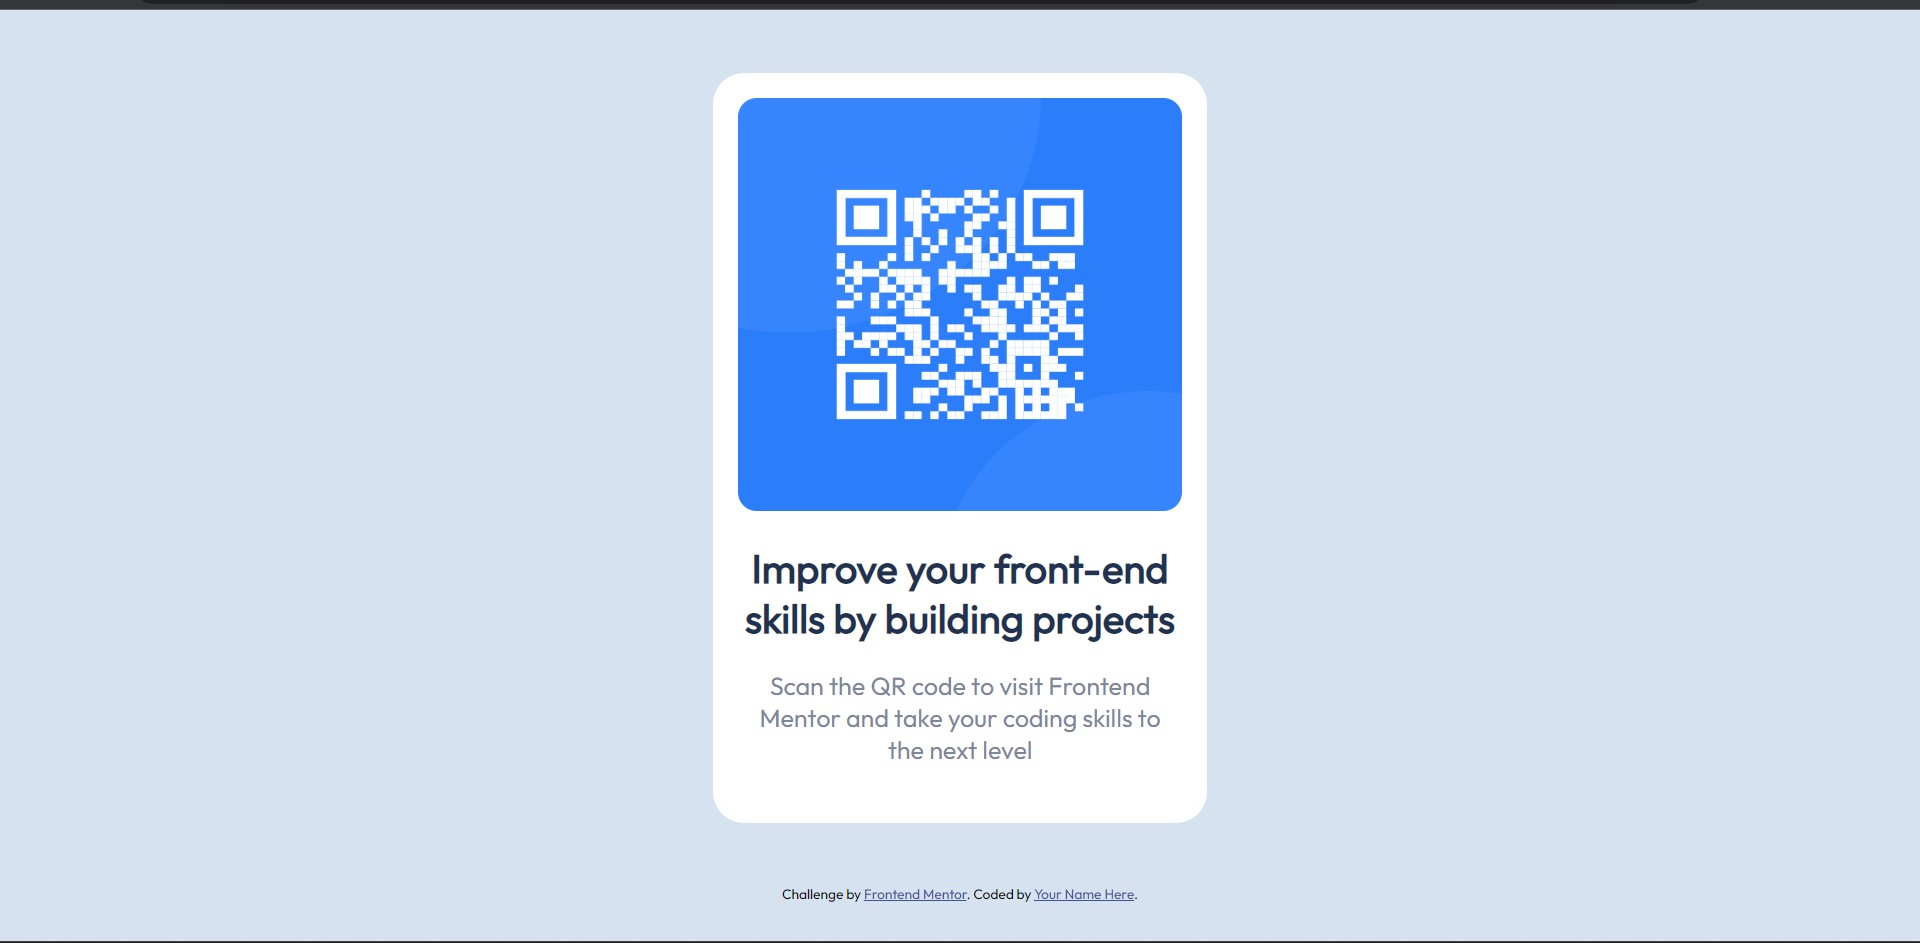
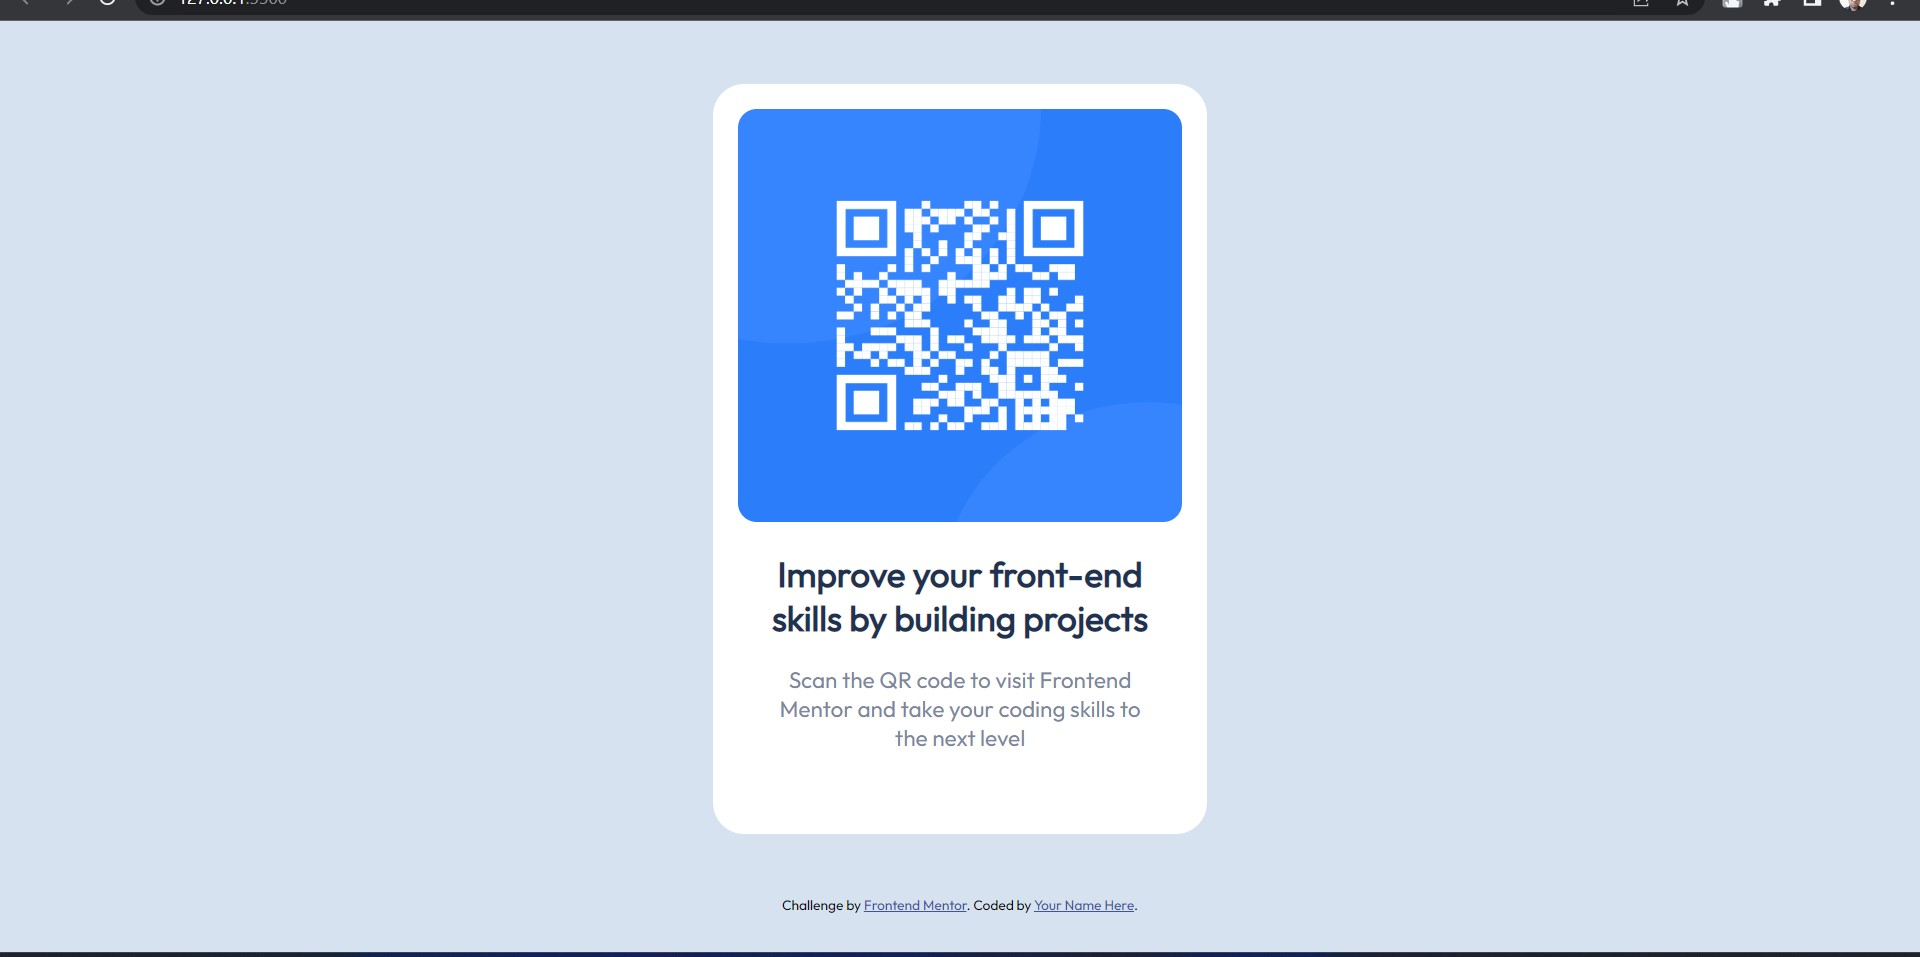
completed the challenge

diff --git a/style.css b/style.css
@@ -29,13 +29,15 @@ body{
 }
 
 .scanner-heading{
-    color: hsl(218, 44%, 22%);    
+    color: hsl(218, 44%, 22%);
+    margin: 20px 30px;
+    font-size: 28px;  
 }
 
 .scanner-details{
     color: hsl(220, 15%, 55%);
-    font-size: 20px;
-    margin: 0 30px;
+    font-size: 18px;
+    margin: 0 50px;
 }
 
 @media only screen and (max-width: 500px) {
@@ -48,8 +50,12 @@ body{
         width: 321px;
         height: 303px;
     }
+
+    .scanner-heading{
+        font-size: 24px;
+    }
     
     .scanner-details{
-        font-size: 18px;
+        font-size: 16px;
     }
 }
